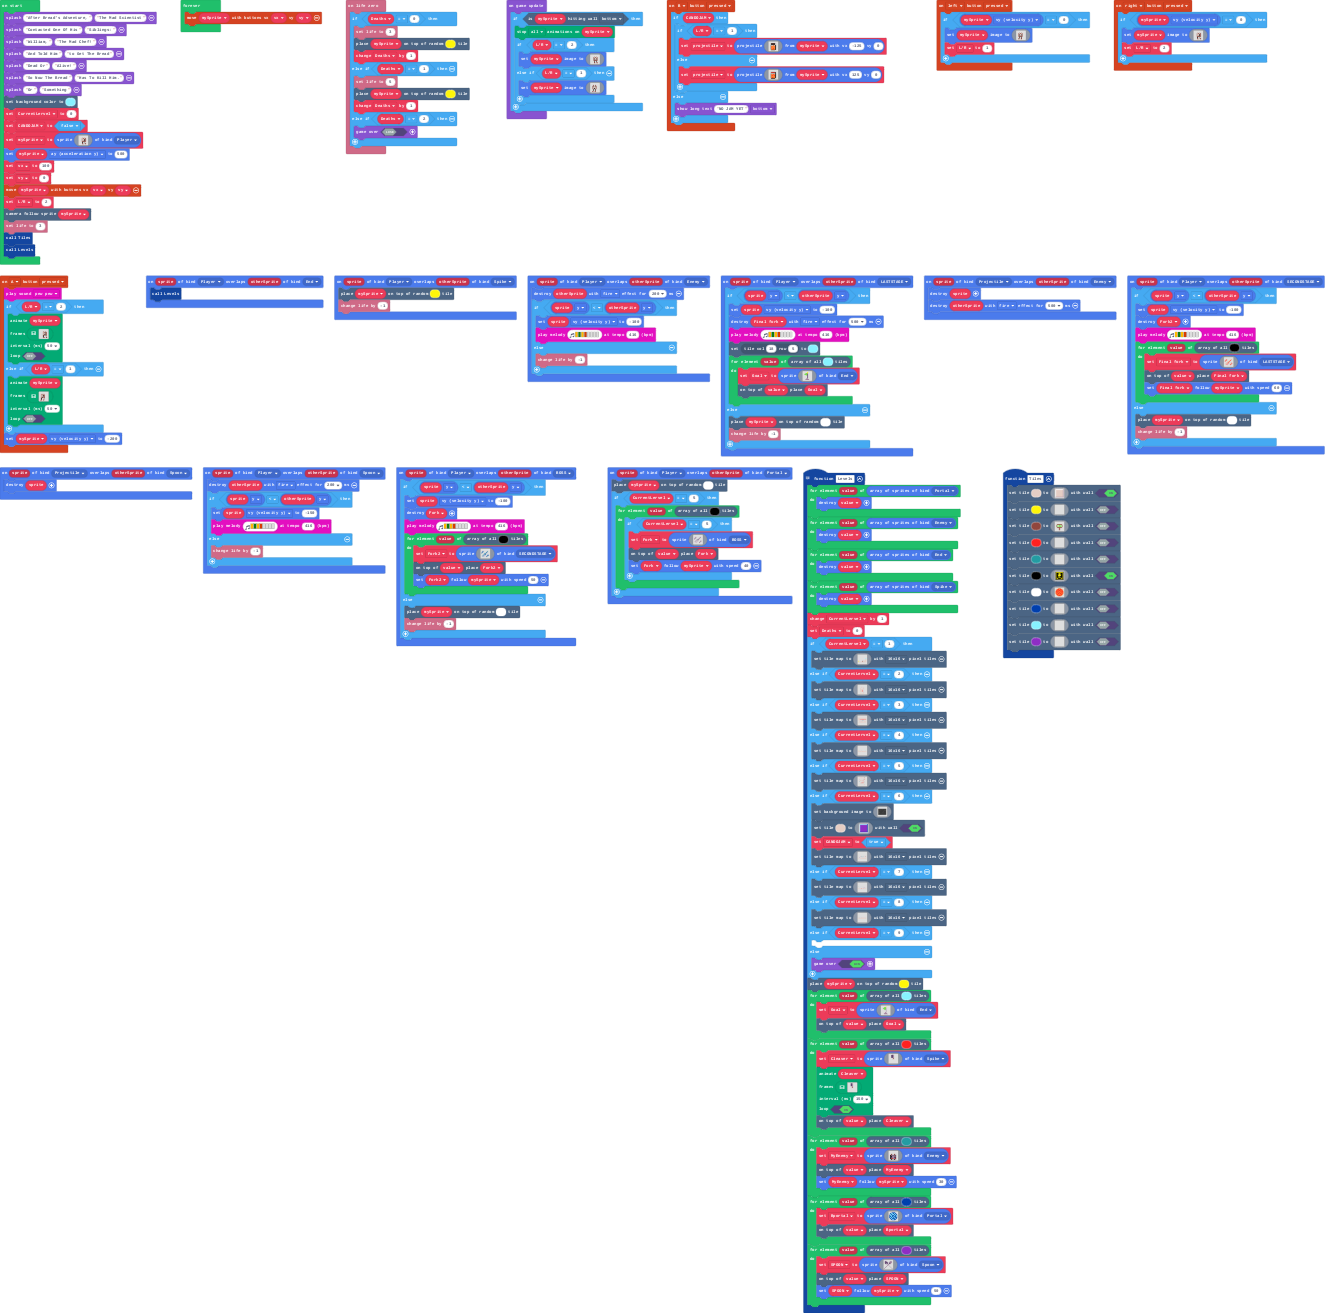
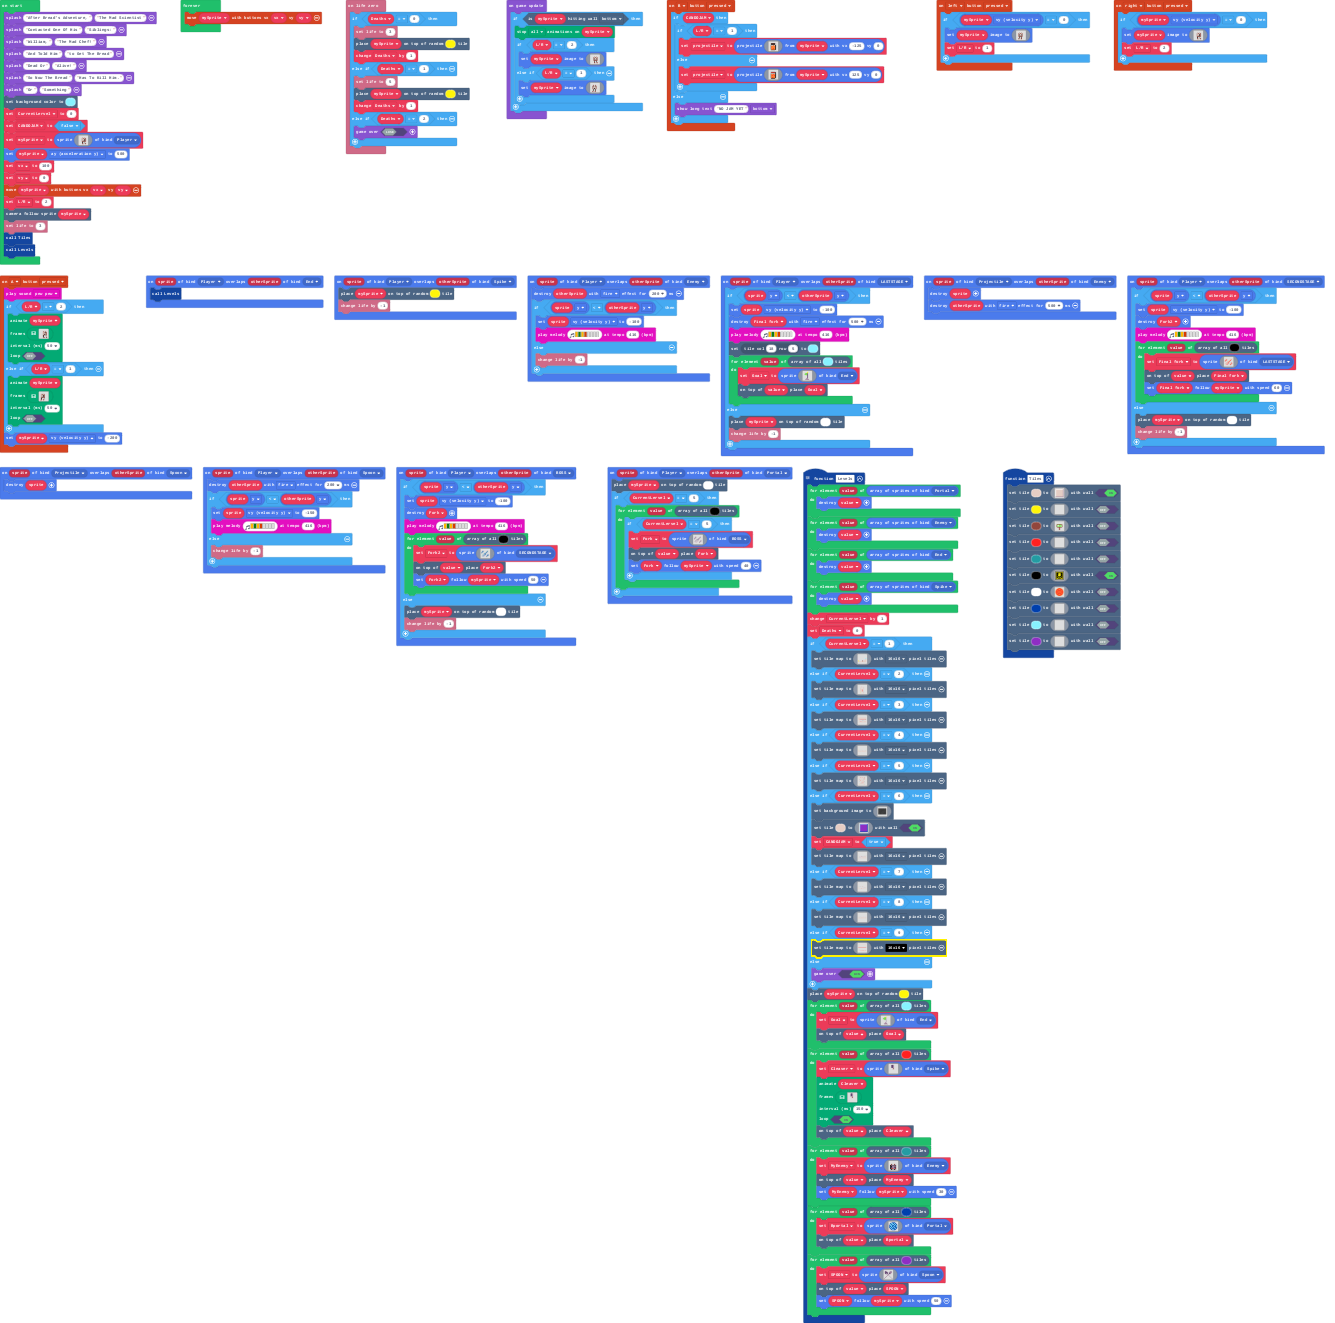
Started On The Second Boss

diff --git a/images.g.ts b/images.g.ts
@@ -599,6 +599,41 @@ ddddd2.............................ddddddddddddddd
 dddddddddddddddddddd22222.......2ddddddddddddddddd
 dddddddddddddddddddddddddddddddddddddddddddddddddd
 `;
+            case "image9":
+            case "2-4":return img`
+dddddddddddddddddddddddddddddddddddddddd
+d......................................d
+d......................................d
+d......................................d
+d......................................d
+d......................................d
+d......................................d
+d......................................d
+d......................................d
+d......................................d
+d......................................d
+d......................................d
+d......................................d
+dddddddddddddddddddddddddddddddddddddddd
+2222222222222222222222222222222222222222
+........................................
+........................................
+........................................
+........................................
+........................................
+........................................
+........................................
+........................................
+........................................
+........................................
+........................................
+.......2...............................2
+.....................2..................
+........................22..........2...
+.................2ddddd.22.dddddd2......
+5...2......2...2ddddddddddddddddddddddd.
+dddddddddddddddddddddddddddddddddddddddd
+`;
         }
         return null;
     })

diff --git a/main.ts b/main.ts
@@ -43,7 +43,7 @@ function Levels () {
     } else if (CurrentLervel == 8) {
         scene.setTileMap(assets.image`2-3`, TileScale.Sixteen)
     } else if (CurrentLervel == 9) {
-    	
+        scene.setTileMap(assets.image`2-4`, TileScale.Sixteen)
     } else {
         game.over(true)
     }
